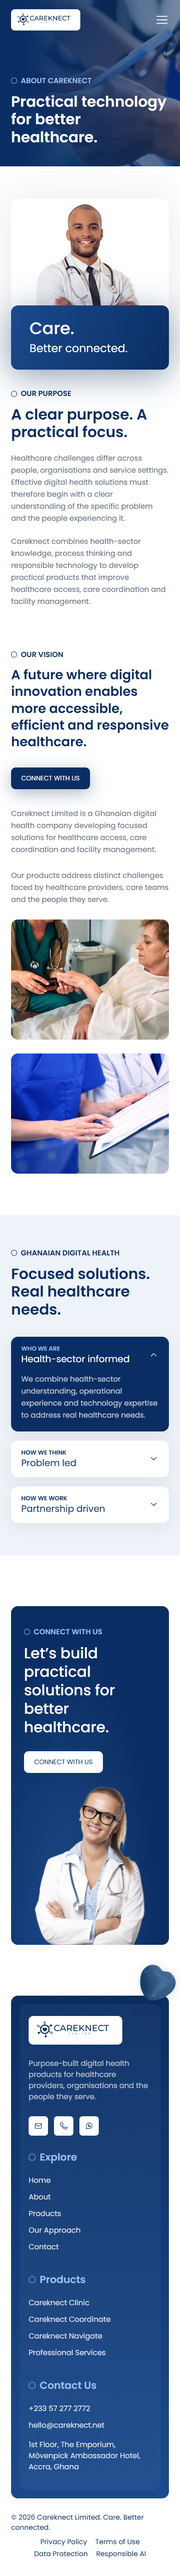
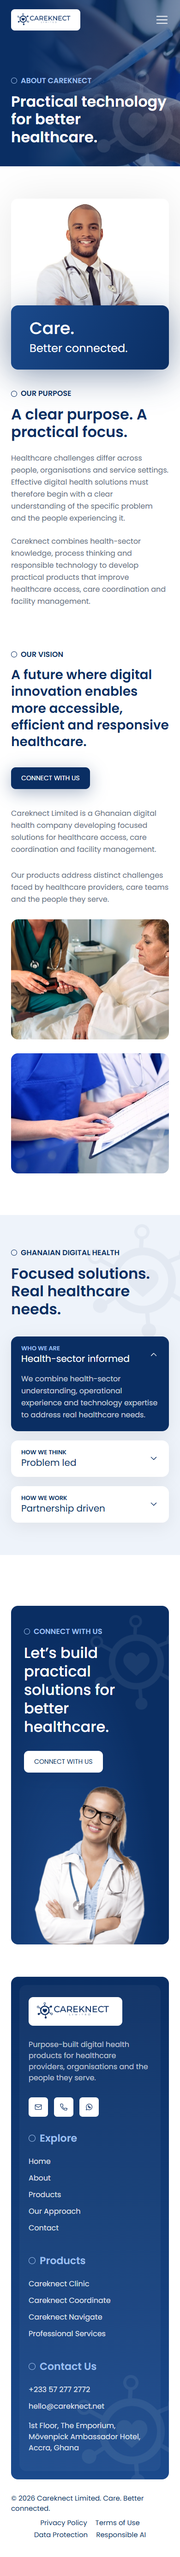
Refactor code structure for improved readability and maintainability

diff --git a/app/styles/site.css b/app/styles/site.css
@@ -13,6 +13,7 @@
   --ease-out: cubic-bezier(0.165, 0.84, 0.44, 1);
   /* One design pixel: scales down with the window below 1440px. */
   --u: min(1px, calc(100vw / 1440));
+  --symbol-ratio: 778 / 799;
   /* Keeps the hero artwork centred on screens wider than the 1440px design. */
   --hero-x: max(0px, calc((100vw - 1440px) / 2));
 }
@@ -580,19 +581,19 @@ html.js .r-slide-right.is-in > * { animation: AuxSlideFromRight var(--r-d) var(-
 }
 
 .track--three .track-item { display: flex; }
-.track--three .product-card { width: 100%; overflow: visible; }
+.track--three .product-card { display: flex; flex-direction: column; width: 100%; overflow: visible; }
 
-.product-card-media { height: 239px; overflow: hidden; border-radius: 15px 15px 0 0; }
+.product-card-media { height: 170px; overflow: hidden; border-radius: 15px 15px 0 0; }
 .product-card-media img { width: 100%; height: 100%; object-fit: cover; pointer-events: none; }
 
 .product-card-icon {
   position: absolute;
-  top: 196px;
-  right: 30px;
+  top: 134px;
+  right: 24px;
   display: grid;
   place-items: center;
-  width: 88px;
-  height: 88px;
+  width: 72px;
+  height: 72px;
   border-radius: 12px;
   background: var(--navy);
   color: #fff;
@@ -600,9 +601,10 @@ html.js .r-slide-right.is-in > * { animation: AuxSlideFromRight var(--r-d) var(-
 }
 .product-card-icon.is-left { right: auto; left: 0; }
 
-.product-card-body { padding: 56px 20px 28px; }
-.product-card-body h3 { font-size: 24px; font-weight: 500; line-height: 1.4; }
-.product-card-body > p:not(.card-kicker) { margin-top: 8px; font-size: 15px; line-height: 26px; color: var(--muted); }
+.product-card-body { flex: 1; display: flex; flex-direction: column; align-items: flex-start; padding: 44px 20px 22px; }
+.product-card-body h3 { font-size: 20px; font-weight: 500; line-height: 1.4; }
+.product-card-body > p:not(.card-kicker) { margin-top: 6px; font-size: 14px; line-height: 22px; color: var(--muted); }
+.product-card-body .text-link { margin-top: auto; padding-top: 12px; }
 
 /* ---------- Blue band with three cards ---------- */
 
@@ -1296,6 +1298,7 @@ html.js .r-slide-right.is-in > * { animation: AuxSlideFromRight var(--r-d) var(-
 /* ---------- Tablet and phone ---------- */
 
 @media (max-width: 1240px) {
+  .track--three { --item: calc((100% - 50px) / 2); --step: calc((100% + 50px) / 2); }
   .nav-link { padding-inline: 12px; font-size: 15px; }
   .nav-cta { margin-left: 10px; padding-inline: 18px; font-size: 13px; }
   .service-grid,
@@ -1440,3 +1443,66 @@ html.js .r-slide-right.is-in > * { animation: AuxSlideFromRight var(--r-d) var(-
 
 /* When the call to action closes a page, it needs space above. */
 .cta-section:last-child { padding-top: 110px; }
+
+/* ---------- Careknect symbol watermark ---------- */
+
+.hero,
+.split-about,
+.blue-section,
+.page-hero,
+.cta-panel,
+.footer-panel,
+.grey-section,
+.contact-section {
+  position: relative;
+  isolation: isolate;
+}
+
+.watermark {
+  position: absolute;
+  z-index: -1;
+  aspect-ratio: var(--symbol-ratio);
+  color: var(--navy);
+  opacity: 0.05;
+  pointer-events: none;
+}
+
+.watermark-shape {
+  display: block;
+  width: 100%;
+  height: 100%;
+  background: currentColor;
+  mask: url("/images/brand/careknect-symbol.png") center / contain no-repeat;
+}
+
+/* On navy the symbol is white. */
+.watermark--hero,
+.watermark--blue,
+.watermark--page-hero,
+.watermark--cta,
+.watermark--footer {
+  color: #fff;
+  opacity: 0.07;
+}
+
+.watermark--hero { right: calc(20 * var(--u)); top: calc(120 * var(--u)); width: calc(640 * var(--u)); }
+.watermark--belief { left: calc(40 * var(--u)); bottom: calc(10 * var(--u)); width: calc(360 * var(--u)); }
+.watermark--blue { right: calc(-60 * var(--u)); top: calc(30 * var(--u)); width: calc(560 * var(--u)); }
+.watermark--cta { left: 42%; bottom: 24px; width: calc(320 * var(--u)); }
+.watermark--footer { right: calc(30 * var(--u)); bottom: calc(-30 * var(--u)); width: calc(400 * var(--u)); }
+.watermark--grey { right: calc(40 * var(--u)); top: calc(50 * var(--u)); width: calc(460 * var(--u)); }
+.watermark--contact { right: calc(150 * var(--u)); bottom: calc(40 * var(--u)); width: calc(440 * var(--u)); }
+
+/* The page hero's photo tint sits above negative layers, so this one sits on top of it. */
+.watermark--page-hero { z-index: 0; right: calc(70 * var(--u)); bottom: calc(30 * var(--u)); width: calc(330 * var(--u)); opacity: 0.1; }
+
+@media (max-width: 1024px) {
+  .watermark--hero { right: -40px; top: auto; bottom: 60px; width: 300px; }
+  .watermark--belief { left: auto; right: -40px; bottom: auto; top: 30px; width: 240px; }
+  .watermark--blue { right: -60px; top: 20px; width: 280px; }
+  .watermark--cta { left: auto; right: -30px; bottom: auto; top: 20px; width: 200px; }
+  .watermark--footer { right: -40px; bottom: -20px; width: 240px; }
+  .watermark--grey { right: -40px; top: 20px; width: 240px; }
+  .watermark--contact { right: -40px; bottom: 20px; width: 240px; }
+  .watermark--page-hero { right: -30px; bottom: -20px; width: 220px; }
+}

diff --git a/app/routes/home.tsx b/app/routes/home.tsx
@@ -1,7 +1,7 @@
 import { Link } from "react-router";
 import { Track, useLoop } from "~/components/carousel";
 import { Icon } from "~/components/icons";
-import { Reveal, ScrollMotion } from "~/components/motion";
+import { Reveal, ScrollMotion, Watermark } from "~/components/motion";
 import { ArrowButton, Btn, ClosingCta, Eyebrow } from "~/components/ui";
 import {
   contact,
@@ -28,6 +28,7 @@ export function meta() {
 function Hero() {
   return (
     <section className="hero">
+      <Watermark className="watermark--hero" />
       <div className="hero-art" aria-hidden="true">
         <ScrollMotion moveIn="moveHorizontal" moveOut="scale" x={70} scale={0.7} className="shape shape--mid">
           <Reveal anim="fade-custom" fromX={-60} duration={1.7} className="shape-fill" />
@@ -86,6 +87,7 @@ function Hero() {
 function Belief() {
   return (
     <section className="split-about">
+      <Watermark className="watermark--belief" />
       <div className="wrap split-about-grid">
         <div className="split-about-copy">
           <Eyebrow>OUR BELIEF</Eyebrow>
@@ -322,6 +324,7 @@ function WhyWeExist() {
 
   return (
     <section className="blue-section">
+      <Watermark className="watermark--blue" />
       <Reveal anim="rotate-down-left" duration={2.3} className="blue-cloud blue-cloud--a">
         <img src={img.cloud} alt="" aria-hidden="true" />
       </Reveal>

diff --git a/app/components/ui.tsx b/app/components/ui.tsx
@@ -2,7 +2,7 @@ import type { ReactNode } from "react";
 import { Link } from "react-router";
 import { img } from "~/content/site";
 import { Icon } from "./icons";
-import { Reveal } from "./motion";
+import { Reveal, Watermark } from "./motion";
 
 /** Small label with the template's hollow ring, sliding up from behind a mask. */
 export function Eyebrow({
@@ -51,6 +51,7 @@ export function PageHero({
   return (
     <section className="page-hero" style={{ backgroundImage: `url("${image}")` }}>
       <div className="page-hero-tint" />
+      <Watermark className="watermark--page-hero" />
       <div className="wrap page-hero-copy">
         <Eyebrow tone="light">{eyebrow}</Eyebrow>
         <Reveal as="h1" anim="fade-up-1">
@@ -79,6 +80,7 @@ export function ClosingCta({
     <section className="cta-section">
       <div className="wrap">
         <div className="cta-panel">
+          <Watermark className="watermark--cta" />
           <div className="cta-copy">
             <Eyebrow tone="light">{eyebrow}</Eyebrow>
             <Reveal as="h2" anim="fade-up-1">

diff --git a/app/components/site-layout.tsx b/app/components/site-layout.tsx
@@ -2,7 +2,7 @@ import { useEffect, useState } from "react";
 import { Link, NavLink, Outlet, useLocation } from "react-router";
 import { contact, footerBlurb, img, legal, nav, products } from "~/content/site";
 import { Icon } from "./icons";
-import { Reveal } from "./motion";
+import { Reveal, Watermark } from "./motion";
 
 const LOGO = "/images/brand/careknect-logo.png";
 
@@ -59,6 +59,7 @@ function Footer() {
     <footer className="site-footer">
       <div className="wrap">
         <div className="footer-panel">
+          <Watermark className="watermark--footer" />
           <div className="footer-grid">
             <Reveal anim="fade-up" duration={1} className="footer-brand">
               <Link to="/" className="footer-logo" aria-label="Careknect Limited, home">

diff --git a/app/routes/contact.tsx b/app/routes/contact.tsx
@@ -2,7 +2,7 @@ import { useEffect, useRef } from "react";
 import { Form, useActionData, useNavigation, useSearchParams } from "react-router";
 import type { Route } from "./+types/contact";
 import { Icon } from "~/components/icons";
-import { Reveal } from "~/components/motion";
+import { Reveal, Watermark } from "~/components/motion";
 import { Eyebrow, PageHero } from "~/components/ui";
 import { contact, enquiryTypes, img, privacyHref } from "~/content/site";
 
@@ -281,6 +281,7 @@ export default function Contact() {
       />
 
       <section className="inner-section contact-section">
+        <Watermark className="watermark--contact" />
         <div className="wrap contact-grid">
           <div>
             <Eyebrow>ENQUIRY FORM</Eyebrow>

diff --git a/app/routes/products.tsx b/app/routes/products.tsx
@@ -1,5 +1,5 @@
 import { Icon } from "~/components/icons";
-import { Reveal, ScrollMotion } from "~/components/motion";
+import { Reveal, ScrollMotion, Watermark } from "~/components/motion";
 import { Btn, ClosingCta, Eyebrow, PageHero } from "~/components/ui";
 import { img, products, services } from "~/content/site";
 
@@ -95,6 +95,7 @@ export default function Products() {
       </section>
 
       <section id="services" className="blue-section blue-section--services">
+        <Watermark className="watermark--blue" />
         <Reveal anim="rotate-down-left" duration={2.3} className="blue-cloud blue-cloud--a">
           <img src={img.cloud} alt="" aria-hidden="true" />
         </Reveal>

diff --git a/app/routes/about.tsx b/app/routes/about.tsx
@@ -1,6 +1,6 @@
 import { useState } from "react";
 import { Icon } from "~/components/icons";
-import { Reveal } from "~/components/motion";
+import { Reveal, Watermark } from "~/components/motion";
 import { Btn, ClosingCta, Eyebrow, PageHero } from "~/components/ui";
 import { img, pillars } from "~/content/site";
 
@@ -121,6 +121,7 @@ export default function About() {
       </section>
 
       <section className="grey-section">
+        <Watermark className="watermark--grey" />
         <div className="wrap accordion-grid">
           <Accordion />
           <div>

diff --git a/app/components/motion.tsx b/app/components/motion.tsx
@@ -211,3 +211,12 @@ export function ScrollMotion({
     </div>
   );
 }
+
+/** Faint Careknect symbol behind a section, turning slightly as the page scrolls. */
+export function Watermark({ className }: { className: string }) {
+  return (
+    <ScrollMotion moveOut="rotateIn" rotate={15} className={`watermark ${className}`}>
+      <span className="watermark-shape" />
+    </ScrollMotion>
+  );
+}
